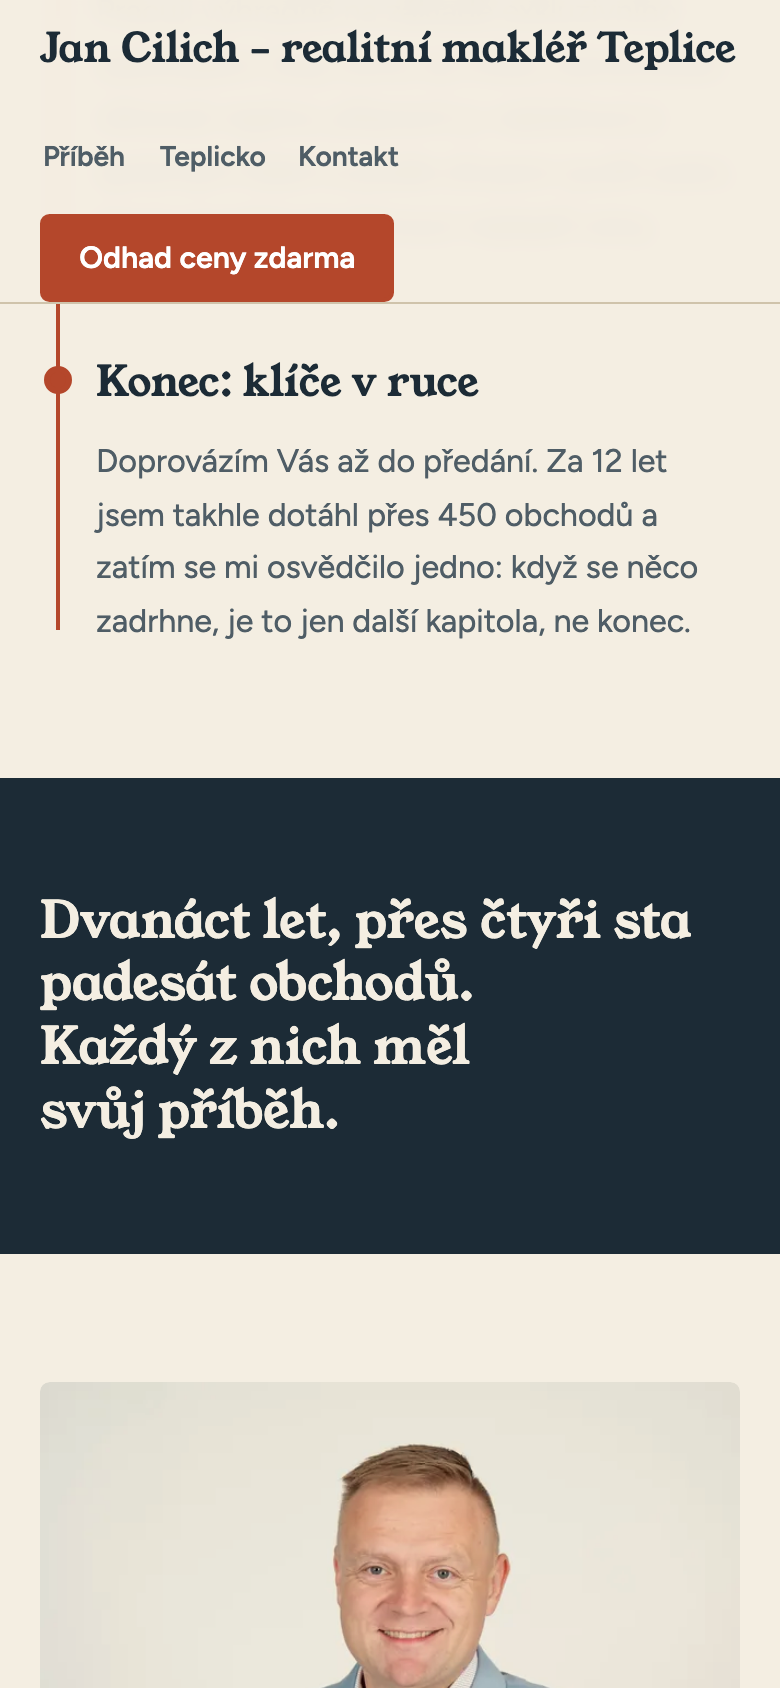
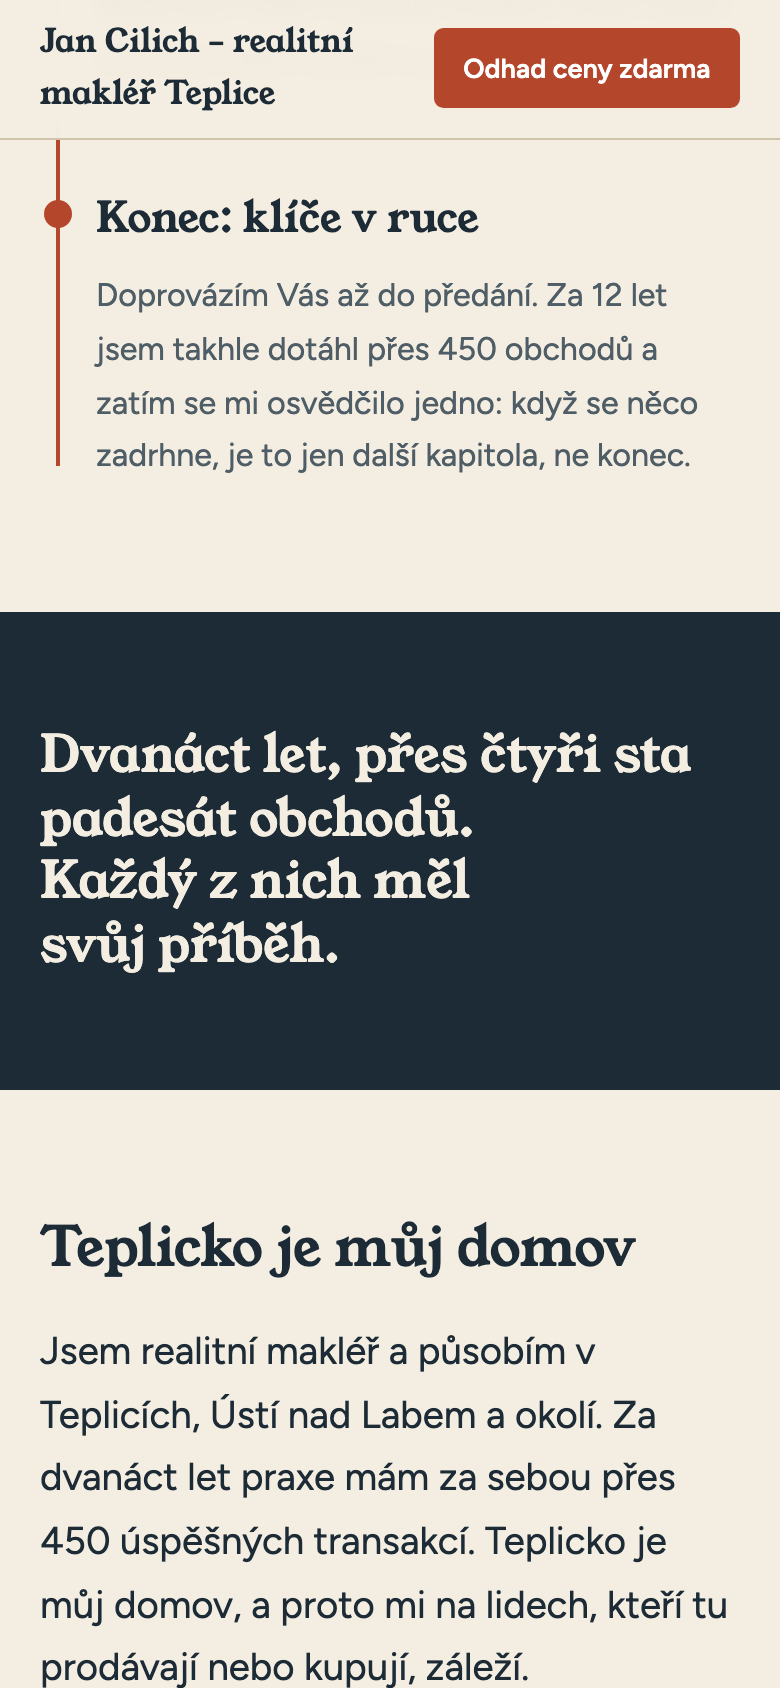
Aktualizace webu 2026-10-20 16:06

diff --git a/static/css/style.css b/static/css/style.css
@@ -96,3 +96,6 @@ ol.kapitoly[role=list]{margin-top:3.5rem;position:relative;padding-left:clamp(1.
 .hero .portret{border-radius:0}
 .konec-note a{display:inline-block;padding:.8rem 0;min-height:2.75rem;line-height:1.2}
 @media (max-width:52rem){.hlavicka nav{display:none}.hlavicka .wrap{flex-wrap:nowrap;min-height:3.75rem}.logo{font-size:1rem}.btn-hlavicka{min-height:2.5rem;padding:0 .8rem;font-size:.85rem}}
+.paticka a,.konec-note a{display:inline-block;padding:.8rem .2rem;min-height:2.75rem;line-height:1.2}
+.hero .portret img{filter:brightness(1.04) contrast(1.03)}
+@media (max-width:52rem){.hero .portret{max-width:none;margin:0 -1rem;aspect-ratio:4/4.4;overflow:hidden}.hero .portret img{height:100%;object-fit:cover;object-position:top}}
